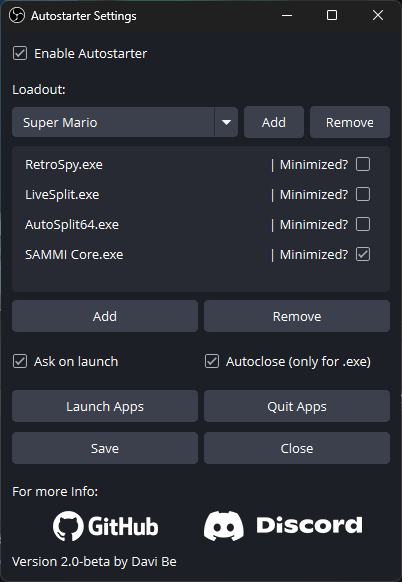
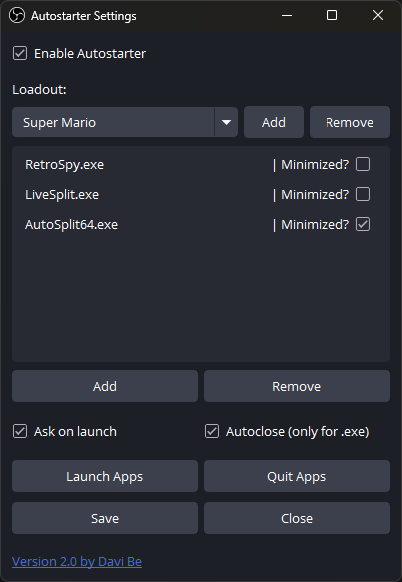
removed obs from dll file name

diff --git a/src/settings-widget.cpp b/src/settings-widget.cpp
@@ -119,41 +119,11 @@ SettingsWidget::SettingsWidget(QWidget *parent) : QWidget(parent)
 
 	mainLayout->addSpacing(10);
 
-	socialLabel = new QLabel(
-		QString::fromStdString(Constants::SOCIAL_LABEL), this);
-	mainLayout->addWidget(socialLabel);
-	mainLayout->addSpacing(5);
-
-	auto socialLayout = new QHBoxLayout();
-
-	githubLink = new QLabel(
-		"<a href='" + QString::fromStdString(Constants::GITHUB_URL) +
-			"'>"
-			"<img src=':/github.png' height='30' style='vertical-align: middle;'></a>",
-		this);
-	githubLink->setOpenExternalLinks(true);
-	githubLink->setToolTip(
-		QString::fromStdString(Constants::GITHUB_TOOLTIP));
-	githubLink->setAlignment(Qt::AlignCenter);
-
-	discordLink = new QLabel(
-		"<a href='" + QString::fromStdString(Constants::DISCORD_URL) +
-			"'>"
-			"<img src=':/discord.png' height='30' style='vertical-align: middle;'></a>",
-		this);
-	discordLink->setOpenExternalLinks(true);
-	discordLink->setToolTip(
-		QString::fromStdString(Constants::DISCORD_TOOLTIP));
-
-	socialLayout->addWidget(githubLink);
-	socialLayout->addWidget(discordLink);
-	mainLayout->addLayout(socialLayout);
-
-	// Add vertical spacing
-	mainLayout->addSpacing(5);
-
 	versionLabel = new QLabel(
-		QString::fromStdString(Constants::VERSION_STRING), this);
+		"<a href=\"" + QString::fromStdString(Constants::GITHUB_URL) + "\">" + 
+		QString::fromStdString(Constants::VERSION_STRING) + "</a>", this);
+	versionLabel->setOpenExternalLinks(true);
+	versionLabel->setCursor(Qt::PointingHandCursor);
 	mainLayout->addWidget(versionLabel);
 
 	connect(saveButton, &QPushButton::clicked, this,

diff --git a/src/constants.hpp b/src/constants.hpp
@@ -6,13 +6,12 @@
  */
 namespace Constants {
     // Version information
-    inline const std::string VERSION = "2.0-beta";
+    inline const std::string VERSION = "2.0";
     inline const std::string AUTHOR = "Davi Be";
     inline const std::string VERSION_STRING = "Version " + VERSION + " by " + AUTHOR;
 
     // Social links
     inline const std::string GITHUB_URL = "https://github.com/DaviBe92/OBSAutostarter";
-    inline const std::string DISCORD_URL = "https://discord.gg/VmrQQBpPSK";
 
     // Window properties
     inline const int DEFAULT_WINDOW_WIDTH = 400;
@@ -20,7 +19,4 @@ namespace Constants {
 
     // UI text
     inline const std::string WINDOW_TITLE = "Autostarter Settings";
-    inline const std::string SOCIAL_LABEL = "For more Info:";
-    inline const std::string GITHUB_TOOLTIP = "For documentation check the GitHub page";
-    inline const std::string DISCORD_TOOLTIP = "For support join the Discord server";
 }

diff --git a/README.md b/README.md
@@ -38,14 +38,14 @@ Plugin for OBS Studio that automatically launches and quits programs alongside O
 ## System Requirements
 
 - Windows 10 or later
-- OBS Studio 29.0.0 or later
+- OBS Studio 30.1.2 or later
 - 64-bit system
 
 ## Installation
 
-1. Download the latest release from the [releases page](https://github.com/DaviBe92/OBSAutostarter/releases)
+1. Download the latest release from the [releases page](https://github.com/DaviBe92/OBSAutostarter/releases/latest)
 2. Close OBS Studio if it's running
-3. Extract the files to your OBS plugins directory:
+3. Extract the `autostarter.dll` to your OBS plugins directory:
    `C:\Program Files\obs-studio\obs-plugins\64bit`
 4. Start OBS Studio
 5. Find "Autostarter" in the Tools menu
@@ -54,10 +54,11 @@ Plugin for OBS Studio that automatically launches and quits programs alongside O
 
 1. Open OBS Studio
 2. Go to Tools → Autostarter
-3. Create a new loadout or use the default one
-4. Add your programs using the "Add" button
-5. Configure launch options for each program
-6. Save your settings
+3. Check Enable Autostarter
+4. Create a new loadout or use the default one
+5. Add your programs using the "Add" button
+6. Configure launch options for each program
+7. Save your settings
 
 ## Configuration
 
@@ -72,9 +73,6 @@ Plugin for OBS Studio that automatically launches and quits programs alongside O
   obs64.exe --autostarter "loadoutname"
   ```
   This will bypass the enabled state and launch dialog, always launching the specified loadout.
-
-## Support
-- [Join Discord](https://discord.gg/VmrQQBpPSK)
 
 ## Credits
 
